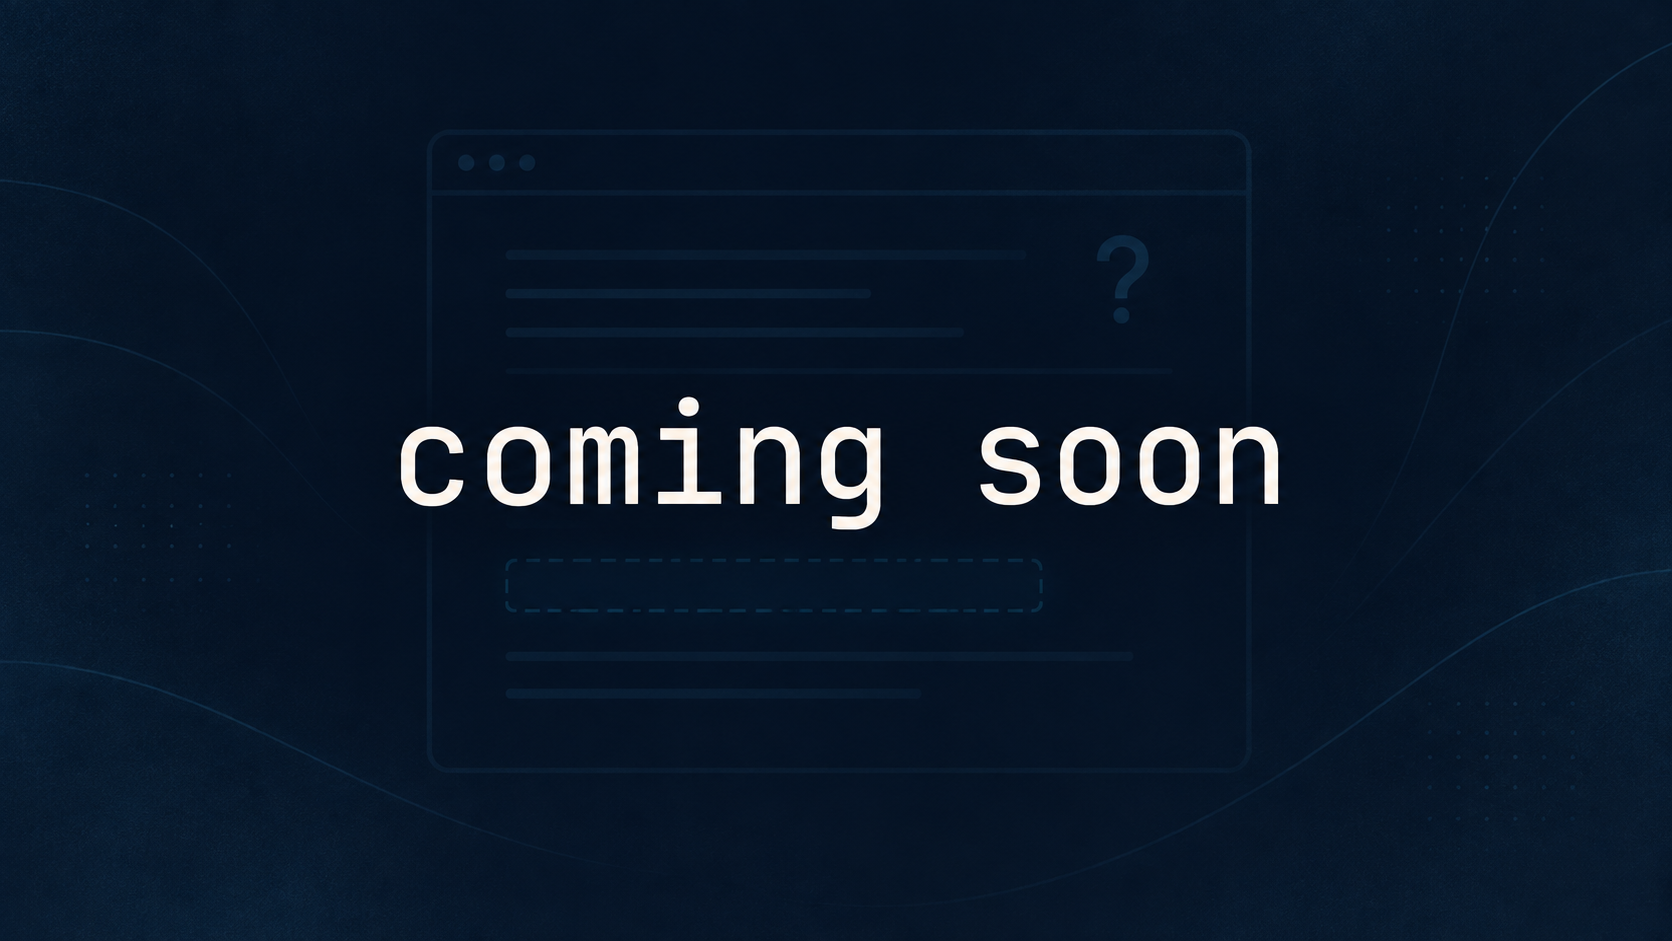
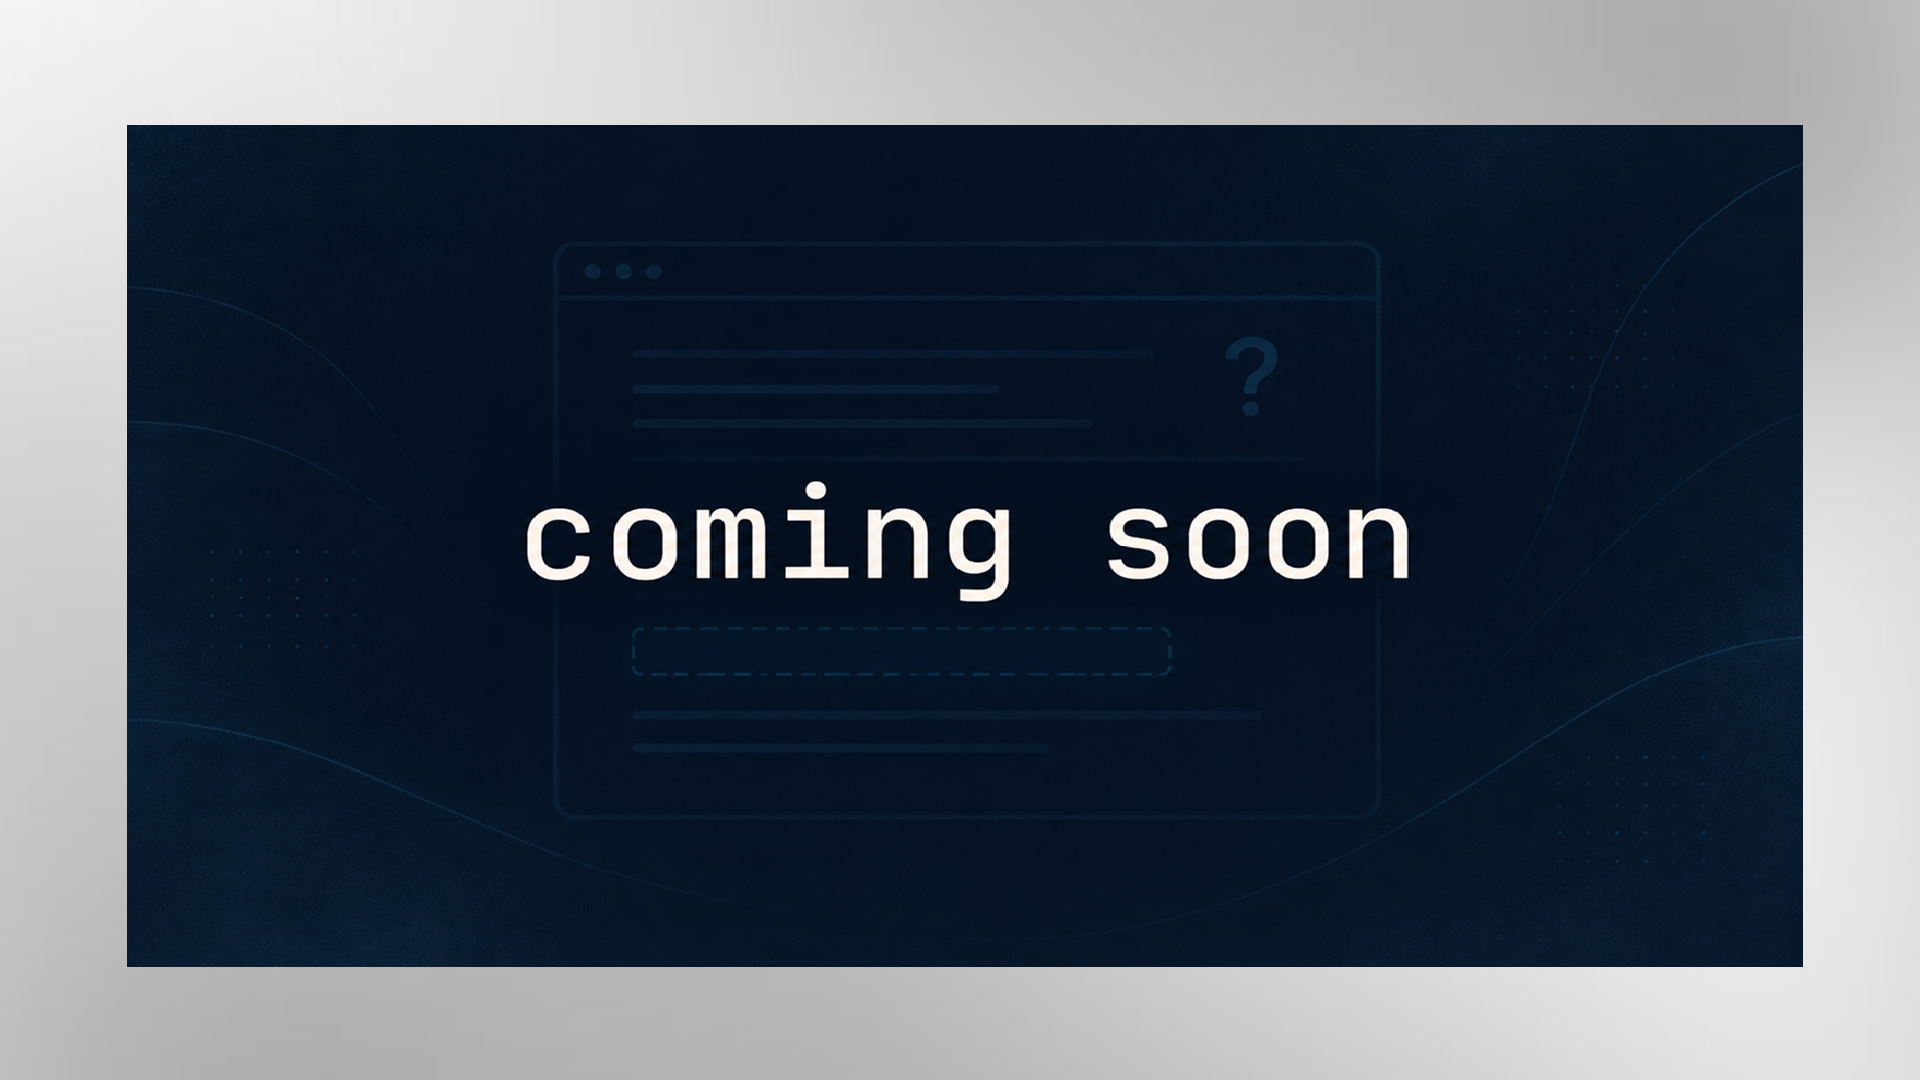
Correction

diff --git a/about.html b/about.html
@@ -239,14 +239,14 @@ height="0" width="0" style="display:none;visibility:hidden"></iframe></noscript>
 
   <ul>
     <li>
+      <strong>Broader marketing</strong>
+      roles with a strong digital and technical component,
+      offering opportunities to connect campaigns, customer insights and marketing systems.
+    </li>
+    <li>
       <strong>Digital analytics</strong>
       roles combining measurement and analysis with experimentation and optimisation, 
       including opportunities that connect analytics with performance marketing.
-    </li>
-    <li>
-      <strong>Broader marketing</strong>
-      roles with a strong digital component and scope to connect campaigns, 
-      customer insight and marketing systems.
     </li>
     <li>
       <strong>Technical customer advisory</strong>
